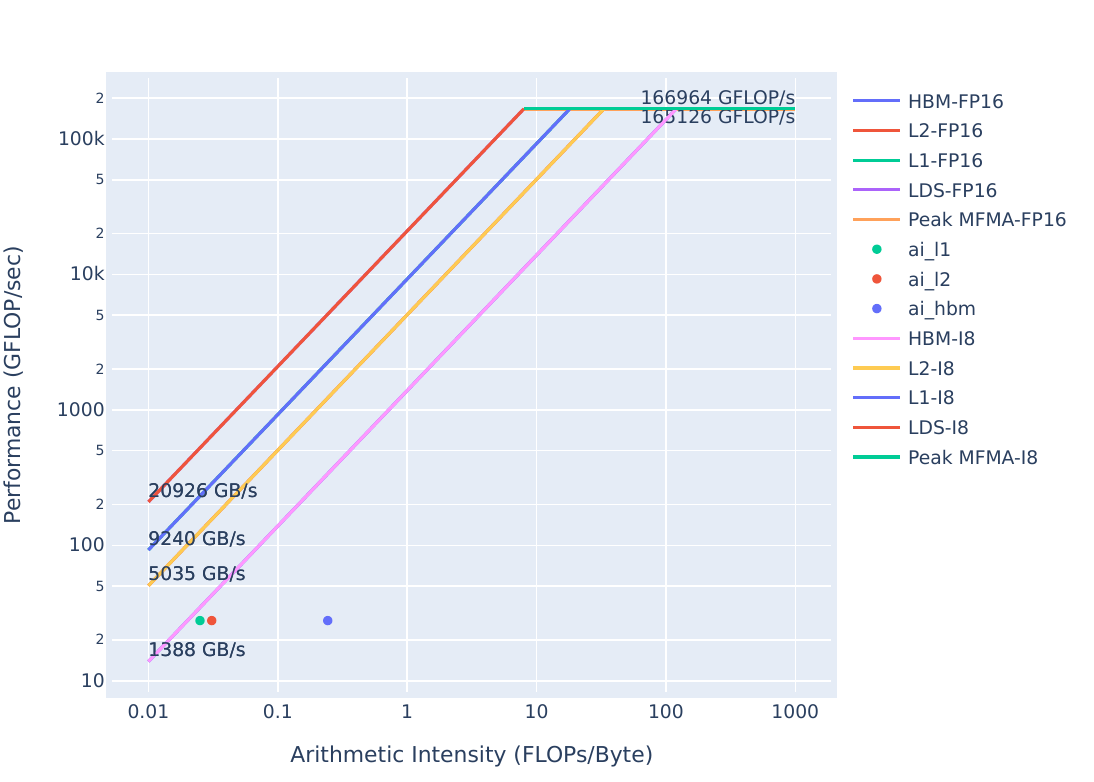
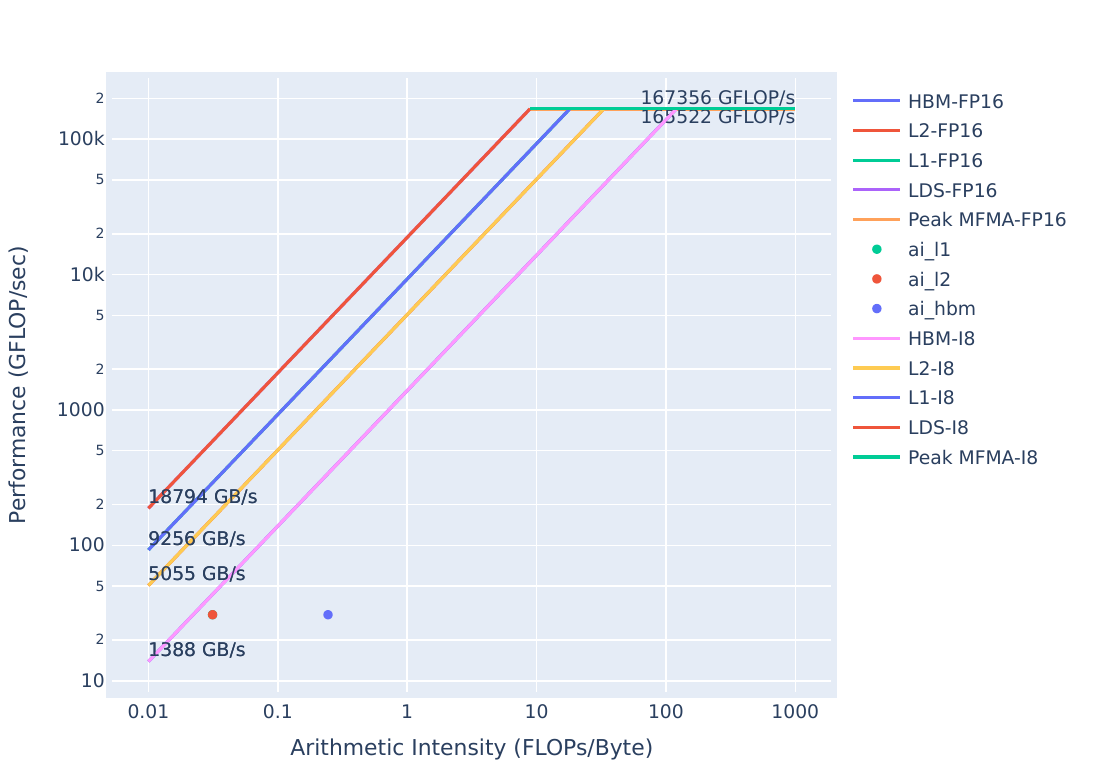
Regenerated roofline pdfs and changed FP32->FP32/FP64 in roofline tables

diff --git a/OmniperfExamples/2-LDSOccupancyLimit/README.md b/OmniperfExamples/2-LDSOccupancyLimit/README.md
@@ -34,7 +34,7 @@ The plots will appear as PDF files in the `./workloads/problem_roof_only/MI200` 
 For convenience, the resulting plots on a representative system are below:
 | Roofline Type | Roofline Legend                                    | Roofline Plot                                        |
 |---------------|----------------------------------------------------|------------------------------------------------------|
-|FP32           |<img src="exercise1_problem_kernelName_legend.png"/>|<img src="exercise2_problem_roofline_fp32.png"/>      |
+|FP32/FP64      |<img src="exercise1_problem_kernelName_legend.png"/>|<img src="exercise2_problem_roofline_fp32.png"/>      |
 |FP16/INT8      |<img src="exercise1_problem_kernelName_legend.png"/>|<img src="exercise2_problem_roofline_int8_fp16.png"/> |
 
 We see that there looks to be room for improvement here. We'll use omniperf to see what the current limiters are.
@@ -313,7 +313,7 @@ The plots will appear as PDF files in the `./workloads/problem_roof_only/MI200` 
 The plots are shown here:
 | Roofline Type | Roofline Legend                                    | Roofline Plot                                        |
 |---------------|----------------------------------------------------|------------------------------------------------------|
-|FP32           |<img src="exercise1_problem_kernelName_legend.png"/>|<img src="exercise2_solution_roofline_fp32.png"/>      |
+|FP32/FP64      |<img src="exercise1_problem_kernelName_legend.png"/>|<img src="exercise2_solution_roofline_fp32.png"/>      |
 |FP16/INT8      |<img src="exercise1_problem_kernelName_legend.png"/>|<img src="exercise2_solution_roofline_int8_fp16.png"/> |
 
 We see that there is still room to move the solution roofline up towards the bandwidth limit.
@@ -321,7 +321,7 @@ We see that there is still room to move the solution roofline up towards the ban
 ### Roofline Comparison
 | Roofline Type | Problem Roofline                                     | Solution Roofline                                      |
 |---------------|------------------------------------------------------|--------------------------------------------------------|
-| FP32          | <img src="exercise2_problem_roofline_fp32.png"/>     | <img src="exercise2_solution_roofline_fp32.png"/>      |
+| FP32/FP64     | <img src="exercise2_problem_roofline_fp32.png"/>     | <img src="exercise2_solution_roofline_fp32.png"/>      |
 | FP16/INT8     | <img src="exercise2_problem_roofline_int8_fp16.png"/>| <img src="exercise2_solution_roofline_int8_fp16.png"/> |
 
 Again, we see that the solution's optimizations have resulted in the kernel moving up in the roofline, meaning the solution executes more efficiently than the problem.

diff --git a/OmniperfExamples/5-AlgorithmicOptimizations/README.md b/OmniperfExamples/5-AlgorithmicOptimizations/README.md
@@ -42,7 +42,7 @@ They are also provided below for easy reference:
 
 | Roofline Type | Roofline Legend                                    | Roofline Plot                                        |
 |---------------|----------------------------------------------------|------------------------------------------------------|
-|FP32           |<img src="exercise1_problem_kernelName_legend.png"/>|<img src="exercise5_problem_roofline_fp32.png"/>      |
+|FP32/FP64      |<img src="exercise1_problem_kernelName_legend.png"/>|<img src="exercise5_problem_roofline_fp32.png"/>      |
 |FP16/INT8      |<img src="exercise1_problem_kernelName_legend.png"/>|<img src="exercise5_problem_roofline_int8_fp16.png"/> |
 
 The performance of this kernel looks pretty close to being HBM bandwidth bound.
@@ -563,7 +563,7 @@ They are also provided below for easy reference:
 
 | Roofline Type | Roofline Legend                                    | Roofline Plot                                        |
 |---------------|----------------------------------------------------|------------------------------------------------------|
-|FP32           |<img src="exercise1_problem_kernelName_legend.png"/>|<img src="exercise5_solution_roofline_fp32.png"/>      |
+|FP32/FP64      |<img src="exercise1_problem_kernelName_legend.png"/>|<img src="exercise5_solution_roofline_fp32.png"/>      |
 |FP16/INT8      |<img src="exercise1_problem_kernelName_legend.png"/>|<img src="exercise5_solution_roofline_int8_fp16.png"/> |
 
 As the Omniperf stats indicate, we are moving most data through the L1, which shows in the roofline as a decrease in Arithmetic Intensity for that cache layer.
@@ -577,7 +577,7 @@ It is important to keep in mind that our solution runs **29x** faster than the p
 
 | Roofline Type | Problem Roofline                                     | Solution Roofline                                      |
 |---------------|------------------------------------------------------|--------------------------------------------------------|
-| FP32          | <img src="exercise5_problem_roofline_fp32.png"/>     | <img src="exercise5_solution_roofline_fp32.png"/>      |
+| FP32/FP64     | <img src="exercise5_problem_roofline_fp32.png"/>     | <img src="exercise5_solution_roofline_fp32.png"/>      |
 | FP16/INT8     | <img src="exercise5_problem_roofline_int8_fp16.png"/>| <img src="exercise5_solution_roofline_int8_fp16.png"/> |
 
 We see a significant speedup from problem to solution, but on the roofline it is difficult to determine which implementation is using the hardware more efficiently. The problem seems to be better, as the HBM point is very close to the achievable bandwidth, while the performance of the solution points seem to decrease.

diff --git a/OmniperfExamples/3-RegisterOccupancyLimit/README.md b/OmniperfExamples/3-RegisterOccupancyLimit/README.md
@@ -33,7 +33,7 @@ This kernel is slightly different from the one we used in previous exercises. Le
 
 | Roofline Type | Roofline Legend                                    | Roofline Plot                                        |
 |---------------|----------------------------------------------------|------------------------------------------------------|
-|FP32           |<img src="exercise1_problem_kernelName_legend.png"/>|<img src="exercise3_problem_roofline_fp32.png"/>      |
+|FP32/FP64      |<img src="exercise1_problem_kernelName_legend.png"/>|<img src="exercise3_problem_roofline_fp32_fp64.png"/>      |
 |FP16/INT8      |<img src="exercise1_problem_kernelName_legend.png"/>|<img src="exercise3_problem_roofline_int8_fp16.png"/> |
 
 You can generate these plots by running:
@@ -294,8 +294,8 @@ Let's see how the solution stacks up in the roofline:
 
 | Roofline Type | Roofline Legend                                    | Roofline Plot                                        |
 |---------------|----------------------------------------------------|------------------------------------------------------|
-|FP32           |<img src="exercise1_problem_kernelName_legend.png"/>|<img src="exercise3_solution_roofline_fp32.png"/>      |
-|FP16/INT8      |<img src="exercise1_problem_kernelName_legend.png"/>|<img src="exercise3_solution_roofline_int8_fp16.png"/> |
+|FP32/FP64      |<img src="exercise1_problem_kernelName_legend.png"/>|<img src="exercise3_solution_roofline_fp32_fp64.png"/>|
+|FP16/INT8      |<img src="exercise1_problem_kernelName_legend.png"/>|<img src="exercise3_solution_roofline_int8_fp16.png"/>|
 
 
 You can generate these plots with:
@@ -311,7 +311,7 @@ We see there is still room for improvement in the solution, as this kernel is no
 
 | Roofline Type | Problem Roofline                                     | Solution Roofline                                      |
 |---------------|------------------------------------------------------|--------------------------------------------------------|
-| FP32          | <img src="exercise3_problem_roofline_fp32.png"/>     | <img src="exercise3_solution_roofline_fp32.png"/>      |
+| FP32/FP64     | <img src="exercise3_problem_roofline_fp32_fp64.png"/>| <img src="exercise3_solution_roofline_fp32_fp64.png"/> |
 | FP16/INT8     | <img src="exercise3_problem_roofline_int8_fp16.png"/>| <img src="exercise3_solution_roofline_int8_fp16.png"/> |
 
 The most notable change between these rooflines is that the L1/L2 arithmetic intensity spread is more pronounced in the problem, which shows that the call to `assert` was causing more data to be moved to the L1, while not adding floating-point operations.

diff --git a/OmniperfExamples/1-LaunchParameters/README.md b/OmniperfExamples/1-LaunchParameters/README.md
@@ -27,7 +27,7 @@ which kernels are performing well, and which kernels should be able to perform b
 
 | Roofline Type | Roofline Legend                                    | Roofline Plot                                        |
 |---------------|----------------------------------------------------|------------------------------------------------------|
-|FP32           |<img src="exercise1_problem_kernelName_legend.png"/>|<img src="exercise1_problem_roofline_fp32.png"/>      |
+|FP32/FP64      |<img src="exercise1_problem_kernelName_legend.png"/>|<img src="exercise1_problem_roofline_fp32.png"/>      |
 |FP16/INT8      |<img src="exercise1_problem_kernelName_legend.png"/>|<img src="exercise1_problem_roofline_int8_fp16.png"/> |
 
 These plots were generated by running:
@@ -351,8 +351,8 @@ To answer that we again turn to the roofline model:
 
 | Roofline Type | Roofline Legend                                    | Roofline Plot                                        |
 |---------------|----------------------------------------------------|------------------------------------------------------|
-|FP32           |<img src="exercise1_problem_kernelName_legend.png"/>|<img src="exercise1_solution_roofline_fp32.png"/>      |
-|FP16/INT8      |<img src="exercise1_problem_kernelName_legend.png"/>|<img src="exercise1_solution_roofline_int8_fp16.png"/> |
+|FP32/FP64      |<img src="exercise1_problem_kernelName_legend.png"/>|<img src="exercise1_solution_roofline_fp32.png"/>     |
+|FP16/INT8      |<img src="exercise1_problem_kernelName_legend.png"/>|<img src="exercise1_solution_roofline_int8_fp16.png"/>|
 
 These plots were generated with:
 
@@ -366,7 +366,7 @@ We see that the solution is solidly in the bandwidth-bound regime, but even stil
 ### Roofline Comparison
 | Roofline Type | Problem Roofline                                     | Solution Roofline                                      |
 |---------------|------------------------------------------------------|--------------------------------------------------------|
-| FP32          | <img src="exercise1_problem_roofline_fp32.png"/>     | <img src="exercise1_solution_roofline_fp32.png"/>      |
+| FP32/FP64     | <img src="exercise1_problem_roofline_fp32.png"/>     | <img src="exercise1_solution_roofline_fp32.png"/>      |
 | FP16/INT8     | <img src="exercise1_problem_roofline_int8_fp16.png"/>| <img src="exercise1_solution_roofline_int8_fp16.png"/> |
 
 We see that the solution has drastically increased performance over the problem code, as shown by the solution points moving up closer to the line plotted by the bandwidth limit. 

diff --git a/OmniperfExamples/4-StridedAccess/README.md b/OmniperfExamples/4-StridedAccess/README.md
@@ -46,7 +46,7 @@ They are also provided below for easy reference:
 
 | Roofline Type | Roofline Legend                                    | Roofline Plot                                        |
 |---------------|----------------------------------------------------|------------------------------------------------------|
-|FP32           |<img src="exercise1_problem_kernelName_legend.png"/>|<img src="exercise4_problem_roofline_fp32.png"/>      |
+|FP32/FP64      |<img src="exercise1_problem_kernelName_legend.png"/>|<img src="exercise4_problem_roofline_fp32.png"/>      |
 |FP16/INT8      |<img src="exercise1_problem_kernelName_legend.png"/>|<img src="exercise4_problem_roofline_int8_fp16.png"/> |
 
 We have plenty of space to improve this kernel, the next step is profiling.
@@ -257,7 +257,7 @@ They are also provided below for easy reference:
 
 | Roofline Type | Roofline Legend                                    | Roofline Plot                                        |
 |---------------|----------------------------------------------------|------------------------------------------------------|
-|FP32           |<img src="exercise1_problem_kernelName_legend.png"/>|<img src="exercise4_solution_roofline_fp32.png"/>      |
+|FP32/FP64      |<img src="exercise1_problem_kernelName_legend.png"/>|<img src="exercise4_solution_roofline_fp32.png"/>      |
 |FP16/INT8      |<img src="exercise1_problem_kernelName_legend.png"/>|<img src="exercise4_solution_roofline_int8_fp16.png"/> |
 
 We appear to be very close to being bound by the HBM bandwidth from the fp32 roofline. 
@@ -267,7 +267,7 @@ To get more performance we need to look closer at our algorithm.
 
 | Roofline Type | Problem Roofline                                     | Solution Roofline                                      |
 |---------------|------------------------------------------------------|--------------------------------------------------------|
-| FP32          | <img src="exercise4_problem_roofline_fp32.png"/>     | <img src="exercise4_solution_roofline_fp32.png"/>      |
+| FP32/FP6      | <img src="exercise4_problem_roofline_fp32.png"/>     | <img src="exercise4_solution_roofline_fp32.png"/>      |
 | FP16/INT8     | <img src="exercise4_problem_roofline_int8_fp16.png"/>| <img src="exercise4_solution_roofline_int8_fp16.png"/> |
 
 We see that the HBM roofline point moves up, while the L1/L2 points move up and to the right from problem to solution. This means that our arithmetic intensity is increasing for the caches, so we are moving less data through the caches to do the same computation.
